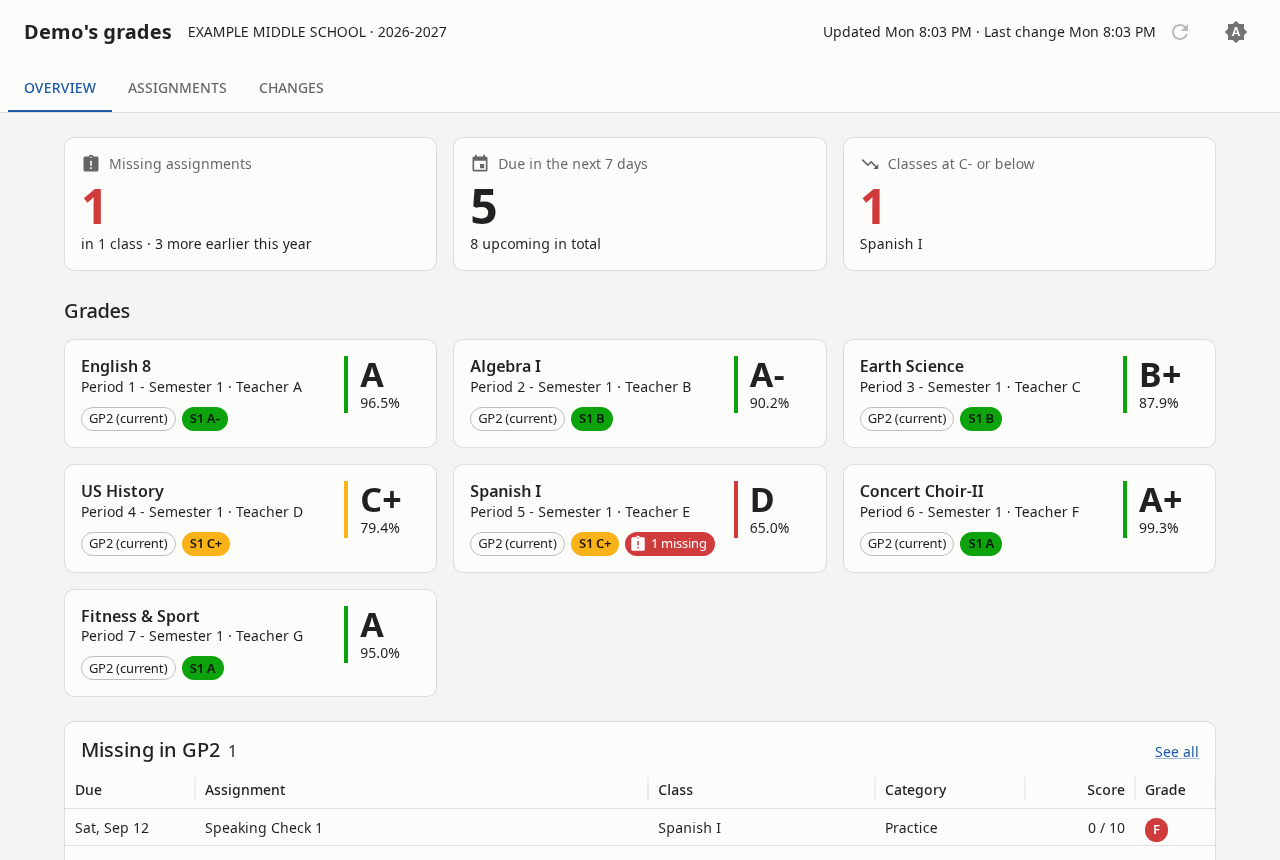
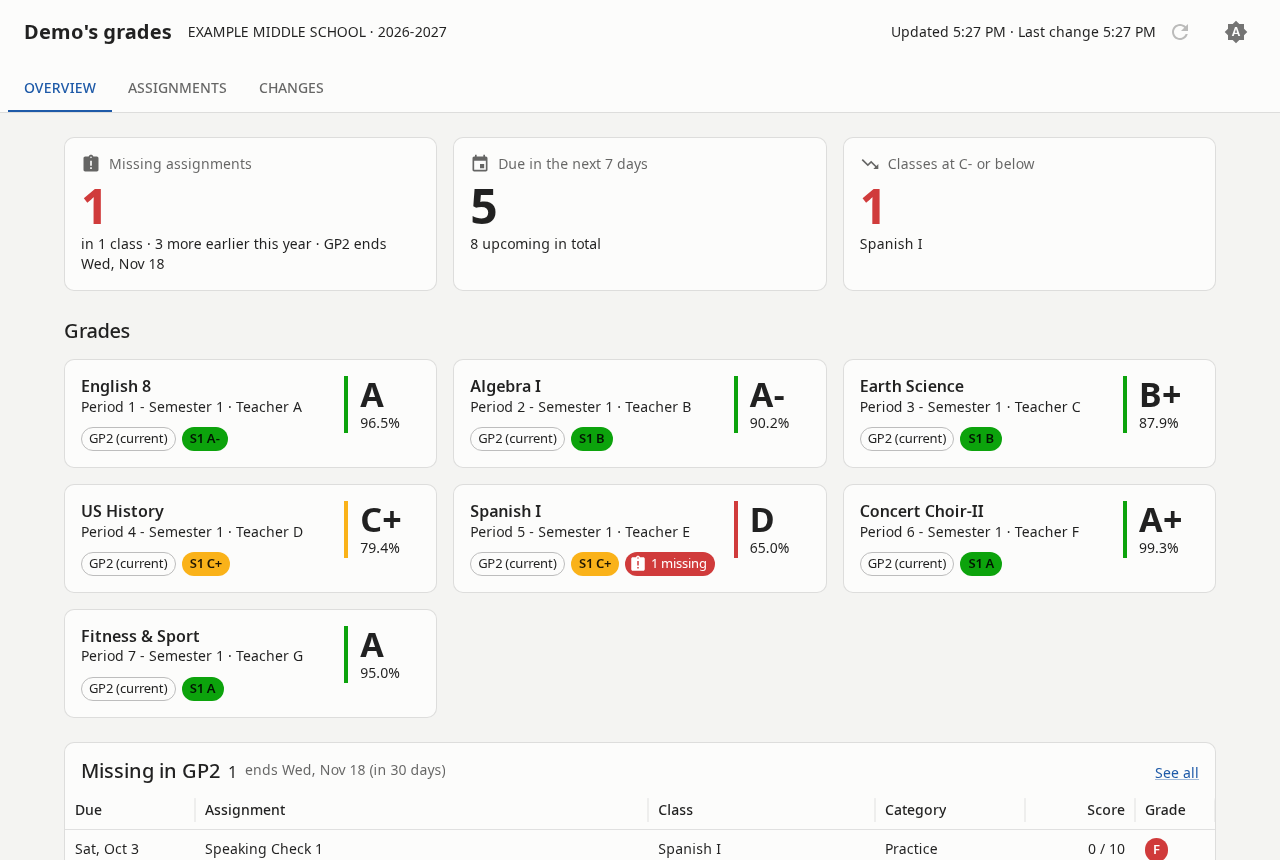
Release 0.11.0: show when the grading period ends in the web app (#43)
* Show when the grading period ends on the overview

The e-paper display already shows it: the last day to hand in missing
work. The Missing tile and the Missing in GPn card now say so too, and
in the period's last week, with work still missing, the date turns bold
with a warning icon.

* Release 0.11.0

---------

diff --git a/frontend/src/OverviewPage.jsx b/frontend/src/OverviewPage.jsx
@@ -10,6 +10,7 @@ import Typography from '@mui/material/Typography'
 import AssignmentLateIcon from '@mui/icons-material/AssignmentLate'
 import EventIcon from '@mui/icons-material/Event'
 import TrendingDownIcon from '@mui/icons-material/TrendingDown'
+import WarningAmberIcon from '@mui/icons-material/WarningAmber'
 
 import AssignmentTable from './AssignmentTable.jsx'
 import { GradeChip, GradeHero } from './GradeBadge.jsx'
@@ -19,6 +20,7 @@ import {
   daysUntil,
   inPeriod,
   isStruggling,
+  periodEnd,
   semesterGrades,
 } from './grades.js'
 
@@ -133,6 +135,10 @@ export default function OverviewPage({ courses, assignments, period, loading }) 
     return days != null && days >= 0 && days < 7 // today and the six days after
   })
   const struggling = graded.filter((c) => isStruggling(currentTerm(c.grades)?.grade))
+  // When the period closes, and so does the chance to hand in what's missing.
+  const ends = periodEnd(period)
+  // Its last week with work still missing: say so louder, as the display does.
+  const urgent = ends && ends.daysLeft < 7 && missing.length > 0
 
   return (
     <Stack spacing={3}>
@@ -146,6 +152,7 @@ export default function OverviewPage({ courses, assignments, period, loading }) 
             detail={[
               missing.length ? `in ${plural(missingClasses, 'class', 'classes')}` : 'All caught up',
               earlier > 0 && `${earlier}${missing.length ? ' more' : ''} earlier this year`,
+              ends && `${period.term} ends ${ends.date}`,
             ]
               .filter(Boolean)
               .join(' · ')}
@@ -203,6 +210,21 @@ export default function OverviewPage({ courses, assignments, period, loading }) 
         title={period ? `Missing in ${period.term}` : 'Missing assignments'}
         href="#assignments/missing"
         count={missing.length}
+        note={
+          ends && (
+            <Stack direction="row" spacing={0.5} sx={{ alignItems: 'center', minWidth: 0 }}>
+              {/* The amber is too light for text on white, so only the icon carries it. */}
+              {urgent && <WarningAmberIcon fontSize="small" sx={{ color: 'warning.main' }} />}
+              <Typography
+                variant="body2"
+                noWrap
+                sx={urgent ? { color: 'text.primary', fontWeight: 600 } : null}
+              >
+                ends {ends.date} ({ends.label})
+              </Typography>
+            </Stack>
+          )
+        }
       >
         <AssignmentTable rows={missing} loading={loading} showStatus={false} pageSize={10} />
       </Section>
@@ -220,16 +242,40 @@ export default function OverviewPage({ courses, assignments, period, loading }) 
   )
 }
 
-function Section({ title, href, count, children }) {
+// `note` sits after the count, or on its own line under the heading on phones.
+function Section({ title, href, count, note, children }) {
   return (
     <Card>
-      <Box sx={{ display: 'flex', alignItems: 'baseline', gap: 1, px: 2, pt: 1.5, pb: 0.5 }}>
-        <Typography variant="h6" component="h2">
+      <Box
+        sx={{
+          display: 'flex',
+          flexWrap: { xs: 'wrap', sm: 'nowrap' },
+          alignItems: 'baseline',
+          columnGap: 1,
+          px: 2,
+          pt: 1.5,
+          pb: 0.5,
+        }}
+      >
+        <Typography variant="h6" component="h2" noWrap sx={{ flexShrink: 0 }}>
           {title}
         </Typography>
         <Typography color="text.secondary">{count}</Typography>
+        {note && (
+          <Box
+            sx={{
+              color: 'text.secondary',
+              minWidth: 0,
+              alignSelf: 'center',
+              order: { xs: 1, sm: 0 },
+              flexBasis: { xs: '100%', sm: 'auto' },
+            }}
+          >
+            {note}
+          </Box>
+        )}
         <Box sx={{ flex: 1 }} />
-        <Link href={href} variant="body2">
+        <Link href={href} variant="body2" sx={{ flexShrink: 0 }}>
           See all
         </Link>
       </Box>

diff --git a/frontend/src/grades.test.js b/frontend/src/grades.test.js
@@ -10,10 +10,12 @@ import {
   gradingPeriod,
   inPeriod,
   isStruggling,
+  periodEnd,
   daysUntil,
   formatPercent,
   gradeBand,
   semesterGrades,
+  shortDate,
   timeAgo,
   clockTime,
   clockTimeShort,
@@ -74,6 +76,20 @@ describe('inPeriod', () => {
   it('counts everything when it cannot tell', () => {
     expect(inPeriod({ due_date: null }, gp2)).toBe(true)
     expect(inPeriod({ due_date: '2026-08-14' }, null)).toBe(true)
+  })
+})
+
+describe('periodEnd', () => {
+  const gp2 = { term: 'GP2', start_date: '2026-09-21', end_date: '2026-10-30' }
+  it('counts the days left, including the last day', () => {
+    expect(periodEnd(gp2, '2026-10-19')).toMatchObject({ daysLeft: 11, label: 'in 11 days' })
+    expect(periodEnd(gp2, '2026-10-29')).toMatchObject({ daysLeft: 1, label: 'tomorrow' })
+    expect(periodEnd(gp2, '2026-10-30')).toMatchObject({ daysLeft: 0, label: 'today' })
+    expect(periodEnd(gp2, '2026-10-30').date).toBe(shortDate('2026-10-30'))
+  })
+  it('is null once the period has ended or without one', () => {
+    expect(periodEnd(gp2, '2026-10-31')).toBeNull()
+    expect(periodEnd(null)).toBeNull()
   })
 })
 

diff --git a/frontend/src/grades.js b/frontend/src/grades.js
@@ -47,6 +47,18 @@ export function inPeriod(assignment, period) {
   return !period || !due || (period.start_date <= due && due <= period.end_date)
 }
 
+/**
+ * When `period` ends, the last chance to hand in what's missing, as
+ * { date: 'Fri Oct 30', daysLeft, label: 'today' | 'tomorrow' | 'in 5 days' }.
+ * Null without a period or once it has ended (between periods), as on the display.
+ */
+export function periodEnd(period, today = isoDay()) {
+  const daysLeft = daysUntil(period?.end_date, today)
+  if (daysLeft == null || daysLeft < 0) return null
+  const label = daysLeft === 0 ? 'today' : daysLeft === 1 ? 'tomorrow' : `in ${daysLeft} days`
+  return { date: shortDate(period.end_date), daysLeft, label }
+}
+
 /** Semester/final grades (S1, S2, ...) that have a value. */
 export const semesterGrades = (grades) =>
   (grades || []).filter((g) => g.grade && /^S\d+$/.test(g.term))

diff --git a/docs/releases/0.11.0.md b/docs/releases/0.11.0.md
@@ -1,0 +1,22 @@
+The dashboard now shows when the grading period ends, as the e-paper display already does. That's
+the last day to hand in what's missing.
+
+## What's changed
+
+- **Grading period end date on the overview.** The "Missing in GP2" card says when the period
+  ends and how long is left: "ends Wed, Nov 18 (in 30 days)". On a phone it sits on its own line
+  under the heading. The Missing assignments count above the grades says it too.
+- **The last week stands out.** In the period's final week, if anything is still missing, the
+  date turns bold with a warning sign beside it, just as the display turns that corner black.
+- Between grading periods, once the last one has ended, the date isn't shown.
+
+## Upgrading
+
+`docker compose up -d` picks this up if you have `pull_policy: always`. Otherwise run
+`docker compose pull && docker compose up -d`. To stay on this release, set the image line to:
+
+```yaml
+    image: afraley/skyward-dashboard:0.11.0
+```
+
+Nothing changes in the display firmware.
